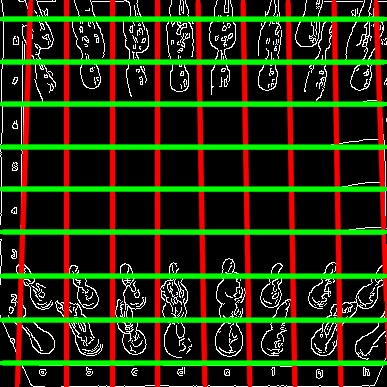
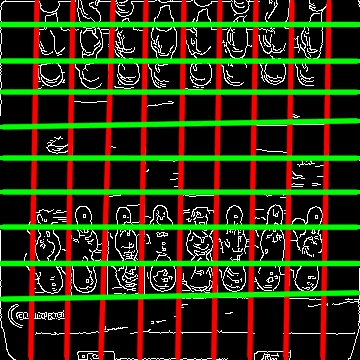
Added missing lines

diff --git a/a.py b/a.py
@@ -190,7 +190,7 @@ def get_lines(lines, cdst):
 
 def make_lines(h_lines, v_lines, cdst):
   
-  print(h_lines.shape, v_lines.shape)
+  # print(h_lines.shape, v_lines.shape)
   for i in range(len(v_lines)):
     # print(i)
 
@@ -236,7 +236,7 @@ def make_lines(h_lines, v_lines, cdst):
 
 if __name__ == '__main__':
 
-  image_name = "chess_1.jfif"
+  image_name = "ch1.jpg"
   img = cv2.imread(image_name)
   # img = unsharp_mask(img, radius=5, amount)
 
@@ -422,13 +422,55 @@ if __name__ == '__main__':
   h_lines = h_lines_final[h_lines_final[:,0].argsort()]
   v_lines = v_lines_final[v_lines_final[:,0].argsort()]
 
+  # print(v_lines.shape)
+  # print(h_lines)
+
+  if h_lines[0][0] > square[-1]:
+    # print(int(np.round(h_lines[0][0]/square[-1])) - 1)
+    while h_lines[0][0] - square[-1] > 0.25*square[-1]:
+      h_lines = np.insert(h_lines, 0, np.array([h_lines[0][0] - square[-1], h_lines[0][1], h_lines[0][2]]), axis=0)
+
+  while h_lines.shape[0] < 9:
+    flag = 0
+    for i in range(h_lines.shape[0] - 1):
+      x = abs(h_lines[i][0] - h_lines[i+1][0])
+      # print(x, square[-1])
+      if(x > 1.5 * square[-1]):
+        flag = 1
+        for j in range(int(np.round(x/square[-1])) - 1):
+          h_lines = np.insert(h_lines, i+j+1, np.array([h_lines[i+j][0]+square[-1], h_lines[i+j][1], h_lines[i+j][2]]), axis=0)
+        break
+    if flag == 0:
+      break
+
+  if v_lines[0][0] > square[-1]:
+    # print(int(np.round(h_lines[0][0]/square[-1])) - 1)
+    while v_lines[0][0] - square[-1] > 0.25*square[-1]:
+      v_lines = np.insert(v_lines, 0, np.array([v_lines[0][0] - square[-1], v_lines[0][1], v_lines[0][2]]), axis=0)
+
+  while v_lines.shape[0] < 9:
+    flag = 0
+    for i in range(v_lines.shape[0] - 1):
+      x = abs(v_lines[i][0] - v_lines[i+1][0])
+      # print(x, square[-1])
+      if(x > 1.5 * square[-1]):
+        flag = 1
+        for j in range(int(np.round(x/square[-1])) - 1):
+          v_lines = np.insert(v_lines, i+j+1, np.array([v_lines[i+j][0]+square[-1], v_lines[i+j][1], v_lines[i+j][2]]), axis=0)
+        break
+    if flag == 0:
+      break
+
   if h_lines.shape[0] > 9:
     h_lines = h_lines[:9]
 
-  print(v_lines)
-  print(h_lines)
+  if v_lines.shape[0] > 9:
+    v_lines = v_lines[-9:]
 
-  make_lines(h_lines_final, v_lines_final, cd2)
+
+  print(h_lines.shape, v_lines.shape)
+
+  make_lines(h_lines, v_lines, cd2)
 
   pts = []
   voting = []
@@ -498,7 +540,7 @@ if __name__ == '__main__':
     X.append(x_temp)
 
   X = np.array(X)
-  print(X)
+  # print(X)
 
   # #     # print(x)
   #     if int(x[0]) not in intersections:
